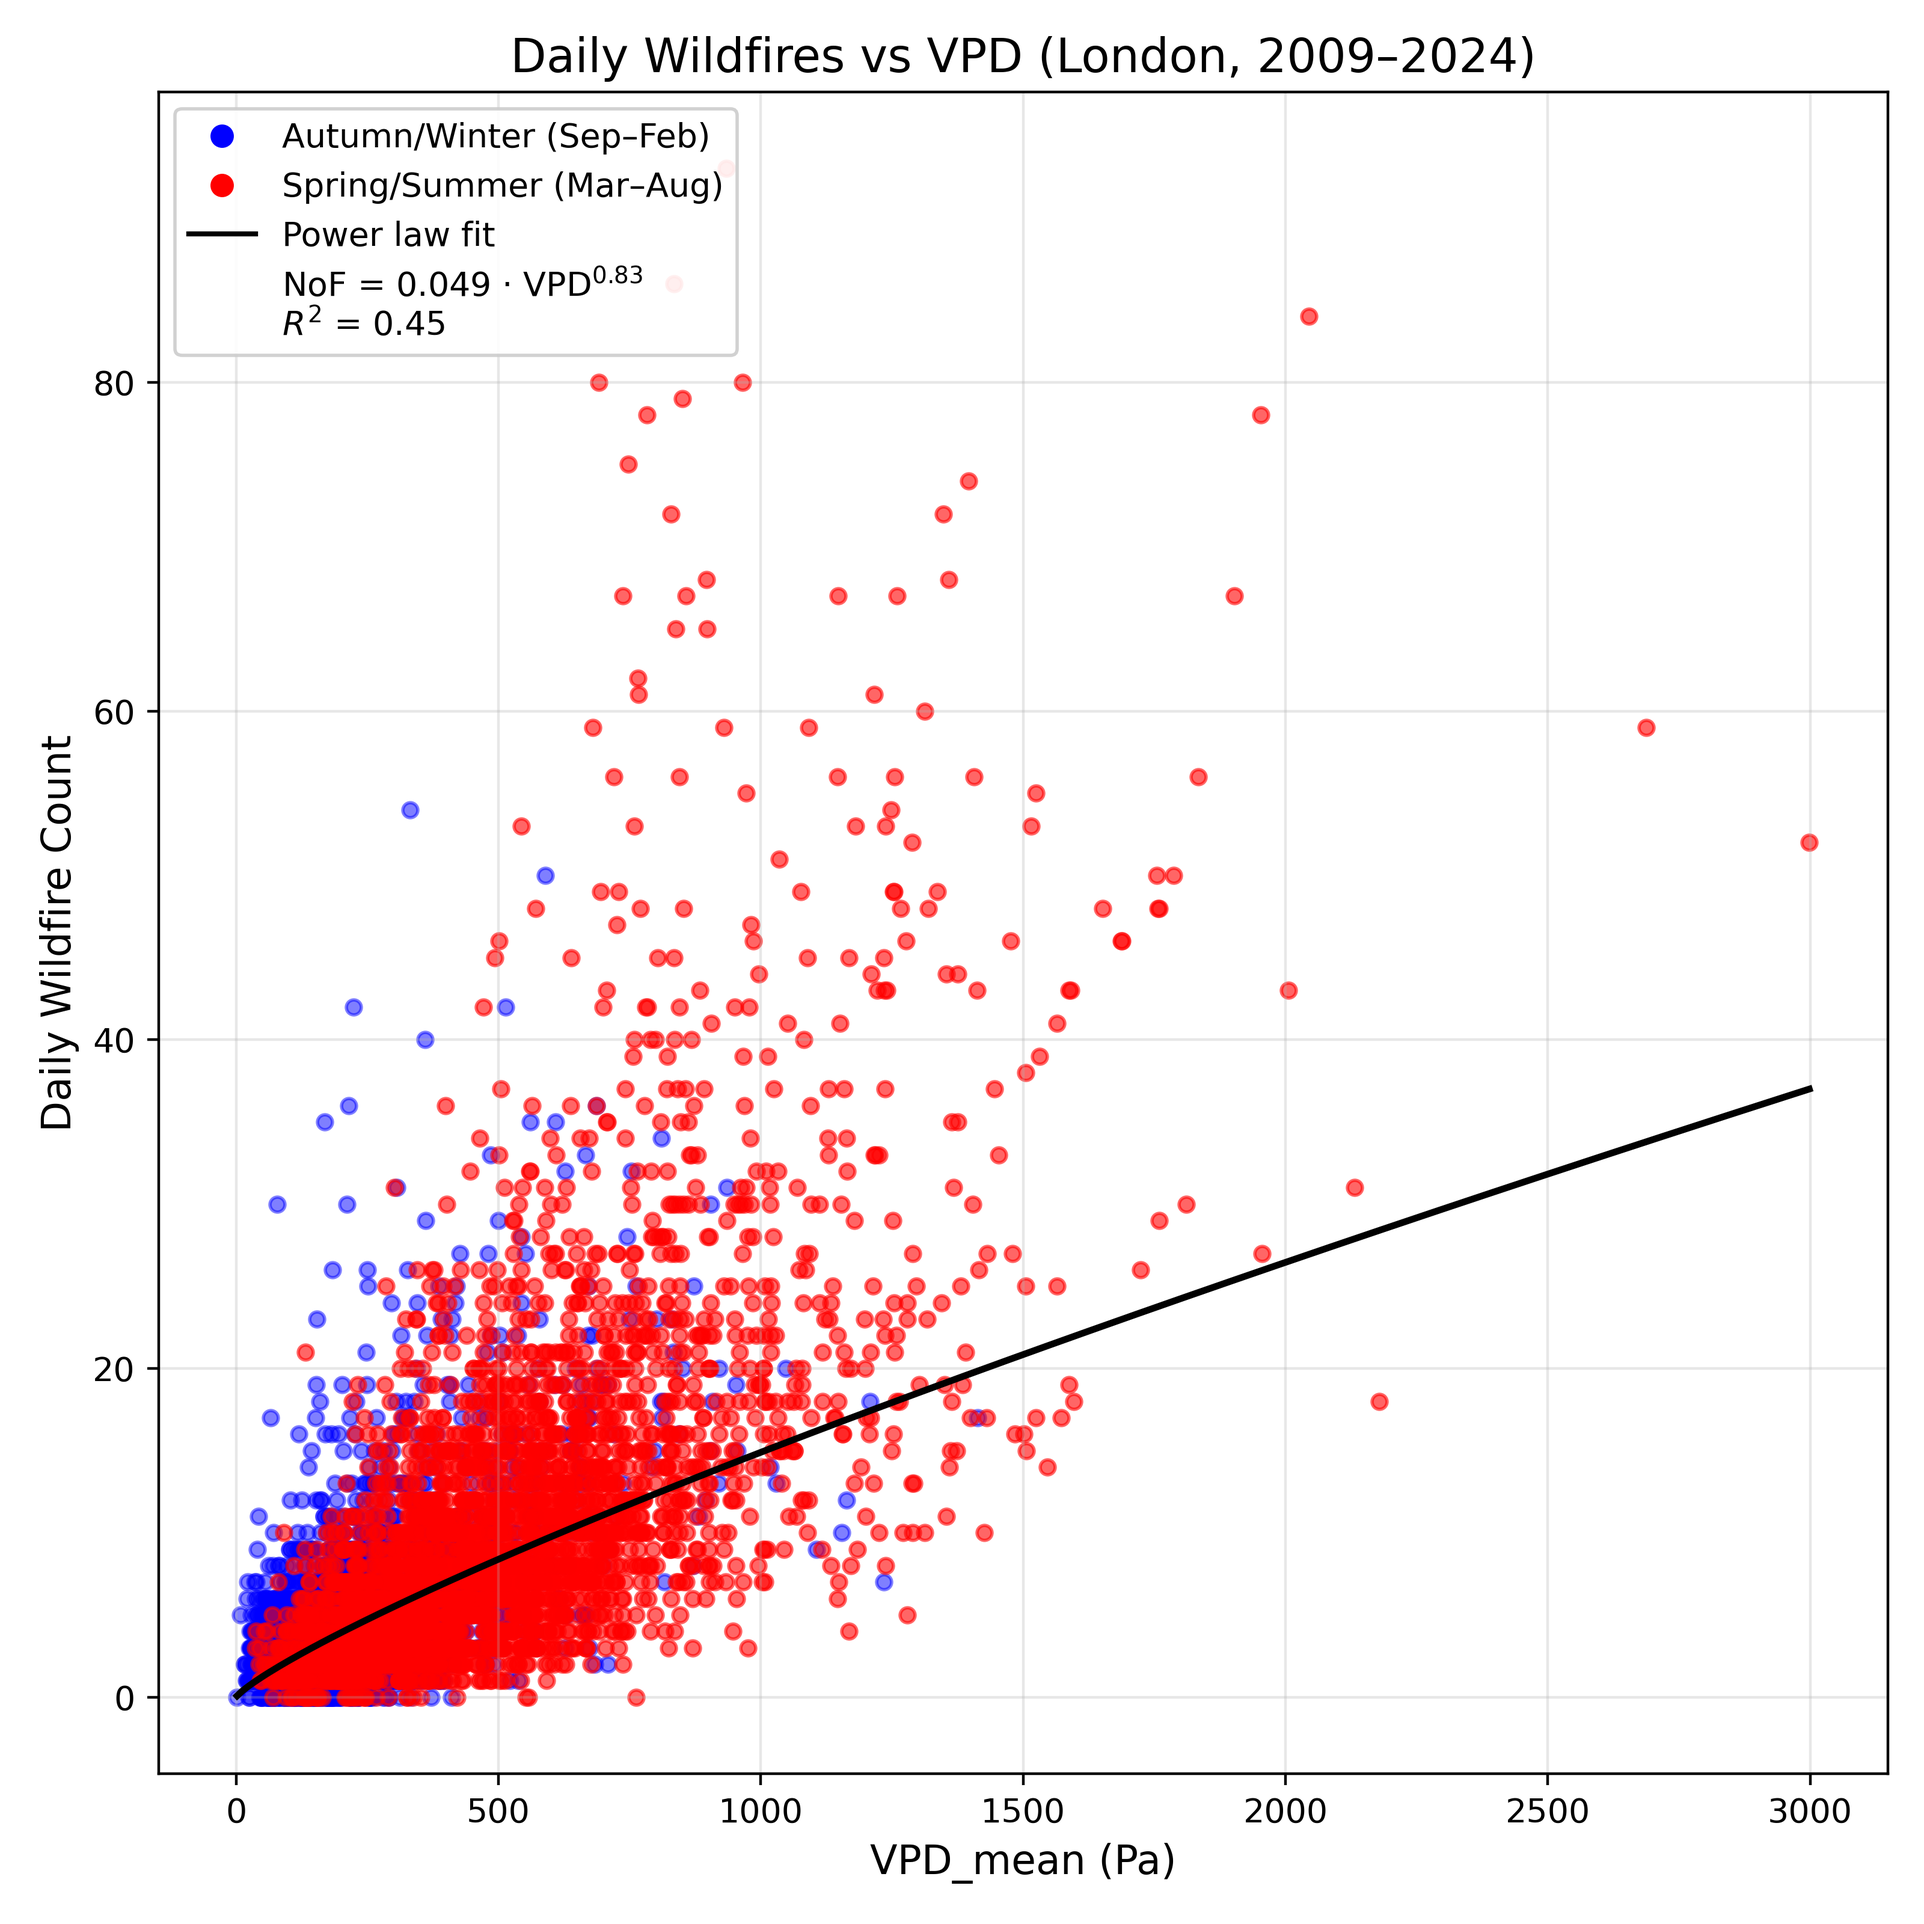
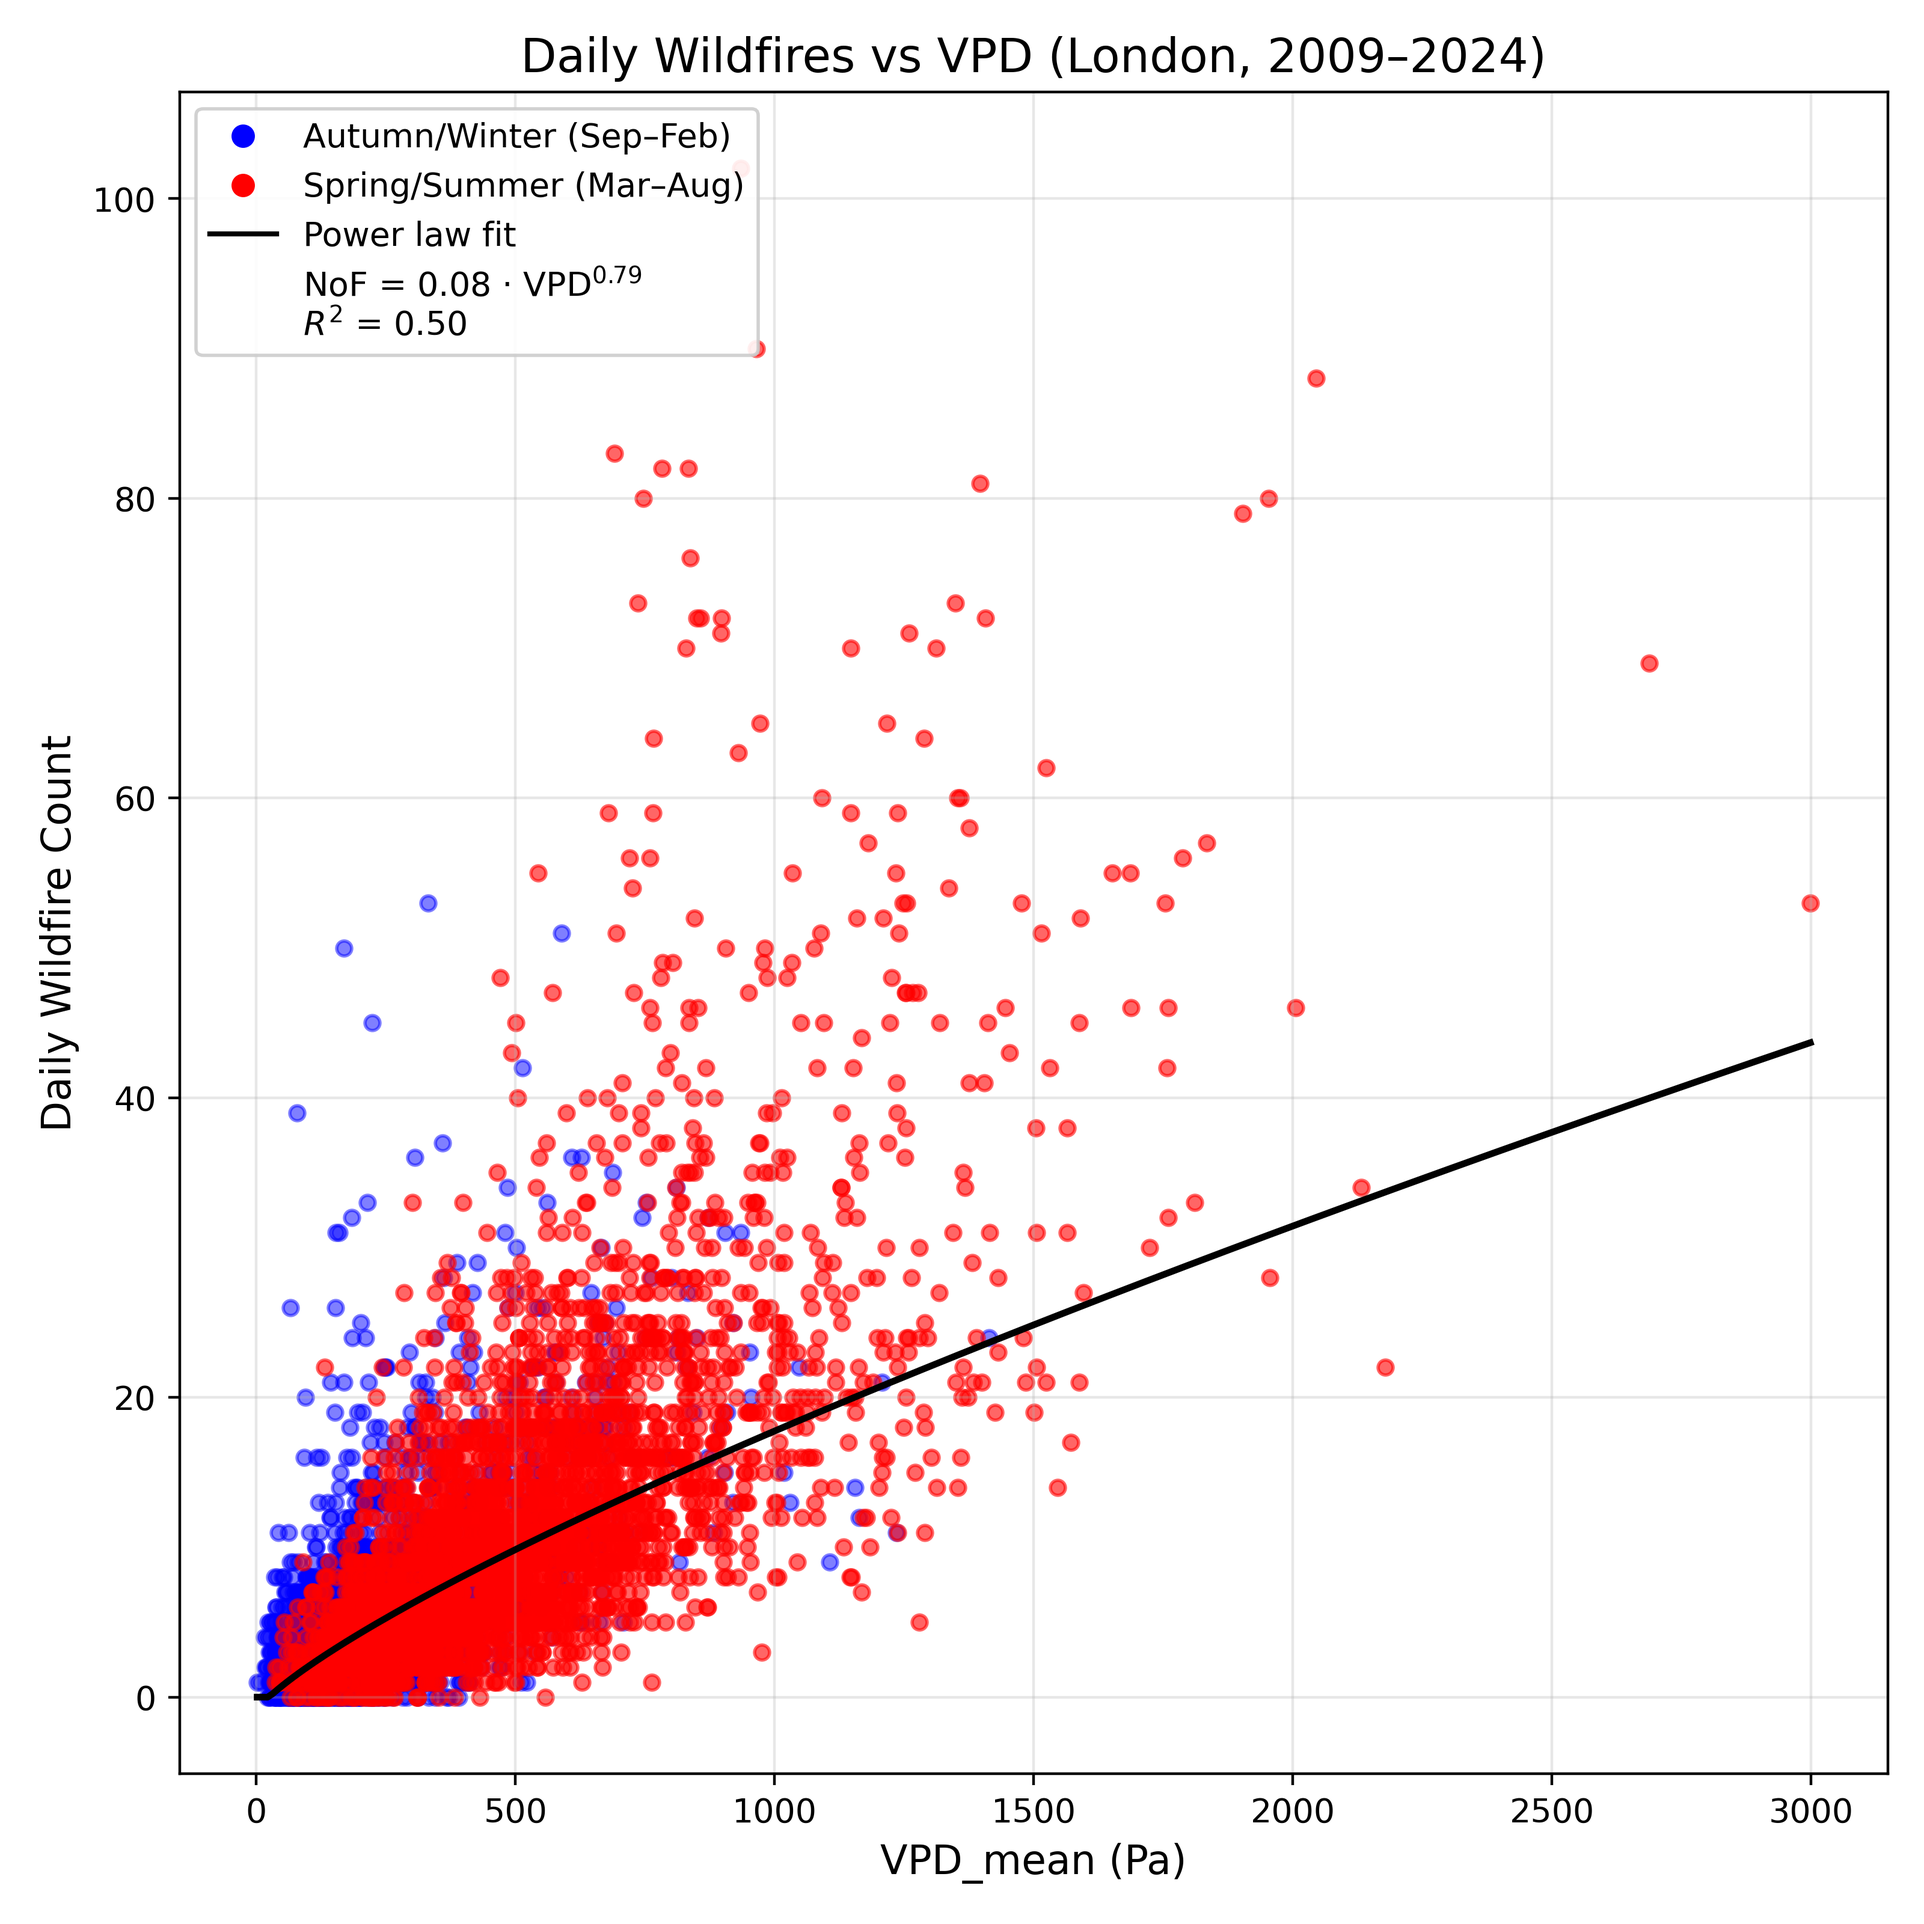
Update power law fit to include zero fire days
Modified the power law fitting in plot_num_fires_vs_vpd.py to use NoF + 1 = a * VPD^b, allowing inclusion of days with zero fires. Updated log transformation, fit calculation, and plotting accordingly. Removed the Poisson GLM plot and updated the power law plot image.

diff --git a/data/graph_generation/num_fires_vs_vpd/plot_num_fires_vs_vpd.py b/data/graph_generation/num_fires_vs_vpd/plot_num_fires_vs_vpd.py
@@ -41,27 +41,27 @@ def fit_power_law(vpd: np.ndarray, fires: np.ndarray):
     """
     Fit a power law:
 
-        NoF = a * VPD^b
+        NoF + 1 = a * VPD^b
 
     by doing linear regression in log–log space:
 
-        ln(NoF) = ln(a) + b * ln(VPD)
+        ln(NoF + 1) = ln(a) + b * ln(VPD)
 
-    Returns a, b, R2.
+    Returns a, b, R2 (computed in log space).
     """
     vpd = np.asarray(vpd, dtype=float)
     fires = np.asarray(fires, dtype=float)
 
-    # need positive values for the logs
-    mask = (vpd > 0) & (fires > 0)
+    # need positive VPD for the log; keep ALL fire counts (including zeros)
+    mask = (vpd > 0) & ~np.isnan(fires)
     x = vpd[mask]
     y = fires[mask]
 
     if len(x) < 2:
-        raise RuntimeError("Not enough positive data points for power law fit.")
+        raise RuntimeError("Not enough data points for power law fit.")
 
     log_x = np.log(x)
-    log_y = np.log(y)
+    log_y = np.log(y + 1.0)   # <-- key change: include zero days
 
     # ordinary least squares in log space
     b, log_a = np.polyfit(log_x, log_y, 1)
@@ -76,6 +76,7 @@ def fit_power_law(vpd: np.ndarray, fires: np.ndarray):
     return a, b, r2
 
 
+
 def plot_fires_vs_vpd(df: pd.DataFrame):
     # determine colours by season
     df["season"] = df["met_day"].apply(
@@ -88,10 +89,10 @@ def plot_fires_vs_vpd(df: pd.DataFrame):
     vpd_all = df["VPD_mean"].values
     fires_all = df["fire_count"].values.astype(float)
 
-    # ---- Fit power law: NoF = a * VPD^b ----
+    # ---- Fit power law: NoF + 1 = a * VPD^b ----
     a_pl, b_pl, r2 = fit_power_law(vpd_all, fires_all)
     print(
-        f"Power law fit: NoF = {a_pl:.3g} * VPD^{b_pl:.3f}, R^2 = {r2:.3f}"
+        f"Power law fit (NoF+1): NoF + 1 = {a_pl:.3g} * VPD^{b_pl:.3f}, R^2 = {r2:.3f}"
     )
 
     # x range for plotting the power law curve
@@ -99,7 +100,11 @@ def plot_fires_vs_vpd(df: pd.DataFrame):
     vpd_min = np.nanmin(vpd_pos)
     vpd_max = np.nanmax(vpd_pos)
     vpd_fit = np.linspace(vpd_min, vpd_max, 300)
-    fires_fit = a_pl * vpd_fit ** b_pl
+
+    # Back to original scale: NoF = a * VPD^b - 1
+    fires_fit = a_pl * vpd_fit ** b_pl - 1.0
+    fires_fit = np.clip(fires_fit, 0, None)
+
 
     # ---- Plot ----
     fig, ax = plt.subplots(figsize=(8, 8))  # square
@@ -143,6 +148,7 @@ def plot_fires_vs_vpd(df: pd.DataFrame):
         f"NoF = {a_pl:.2g} · VPD$^{{{b_pl:.2f}}}$\n"
         f"$R^2$ = {r2:.2f}"
     )
+
 
     dummy_handle = mlines.Line2D([], [], color="none")
 
